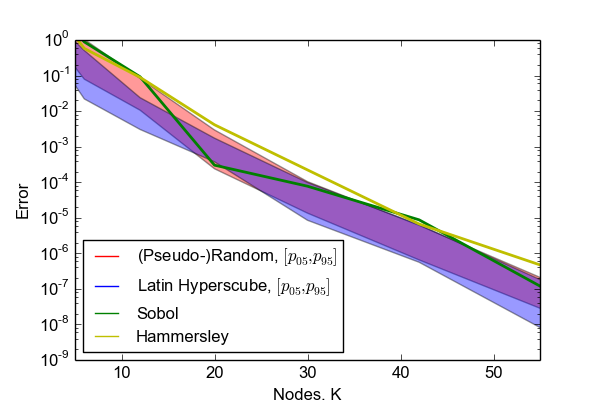
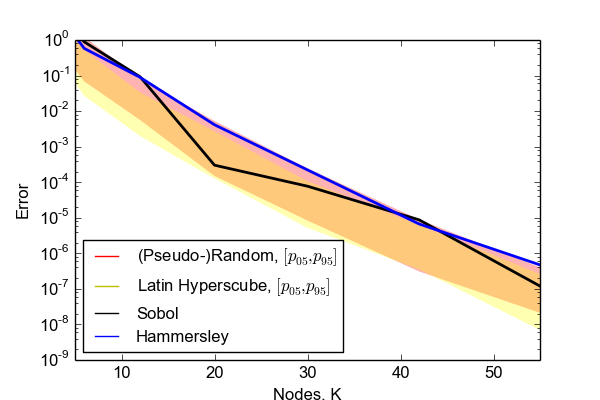
cganged plot

diff --git a/figures/convergence_collocation_compare.py b/figures/convergence_collocation_compare.py
@@ -31,9 +31,9 @@ legend = []
 #pl.plot(-1,1, "k-")
 #pl.plot(-1,1, "k--")
 pl.plot(-1,1, "r")
-pl.plot(-1,1, "b")
-pl.plot(-1,1, "g")
 pl.plot(-1,1, "y")
+pl.plot(-1,1, "k")
+pl.plot(-1,1, "b")
 pl.legend(["(Pseudo-)Random, $[p_{05}, p_{95}]$","Latin Hyperscube, $[p_{05}, p_{95}]$","Sobol","Hammersley"],loc=3,prop={"size" :12})
 pl.rc("figure", figsize=[6,4])
 pl.xlim([5,55])
@@ -45,7 +45,7 @@ N=7
 #varb = np.zeros(Nt)
 errorb = []
 varb=[]
-for i in range(0,10):
+for i in range(0,100):
     
     error = []
     var = []
@@ -73,7 +73,7 @@ print len(K)
 meanE = np.sum(errorb,0)/10.
 meanVar = np.sum(errorb,0)/10.
 
-pl.fill_between(K,p_10,p_90,facecolor="red",alpha=0.4)
+pl.fill_between(K,p_10,p_90,facecolor="red",alpha=0.3,lw=0)
 #pl.plot(K,meanE,"r-", linewidth=2)
 #pl.plot(K, meanVar,"r--", linewidth=2)
 
@@ -83,7 +83,7 @@ pl.fill_between(K,p_10,p_90,facecolor="red",alpha=0.4)
 
 errorb = []
 varb=[]
-for i in range(0,10):
+for i in range(0,100):
     
     error = []
     var = []
@@ -114,7 +114,7 @@ print len(K)
 meanE = np.sum(errorb,0)/10.
 meanVar = np.sum(errorb,0)/10.
 
-pl.fill_between(K,p_10,p_90,facecolor="blue",alpha=0.4)
+pl.fill_between(K,p_10,p_90,facecolor="yellow",alpha=0.3,lw=0)
 
 
 #pl.plot(K,meanE,"b-", linewidth=2)
@@ -139,7 +139,7 @@ for n in range(0,N):
 
 
 #pl.plot(K,error,"g-", linewidth=2)
-pl.plot(K, var,"g-", linewidth=2)
+pl.plot(K, var,"k-", linewidth=2)
 
 
 
@@ -158,7 +158,7 @@ for n in range(0,N):
 
 
 #pl.plot(K,error,"y-", linewidth=2)
-pl.plot(K, var,"y-", linewidth=2)
+pl.plot(K, var,"b-", linewidth=2)
 
 
 
@@ -174,7 +174,7 @@ pl.yscale('log')
 pl.savefig("convergence_collocation_compare.png")
 
 pl.show()
-
+"""
 pl.figure()
 nodes = dist.sample(100)
 pl.scatter(nodes[0],nodes[1])
@@ -205,6 +205,7 @@ pl.savefig("samples_S.png")
 
 
 #pl.show()
+"""
 
 
 

diff --git a/figures/convergence_L.py b/figures/convergence_L.py
@@ -98,15 +98,15 @@ pl.plot(K, varCP,"g--",linewidth=2)
 """
 
 
-pl.xlabel("Nodes, K")
-pl.ylabel("Error")
-pl.yscale('log')
+#pl.xlabel("Nodes, K")
+#pl.ylabel("Error")#
+#pl.yscale('log')
 #pl.xlim([5,35])
 #pl.ylim([10**-16,2*10**3])
 
 #pl.title("Error in expectation value and variance ")
 #pl.legend(["E, $L=M-1$","Var, $L=M-1$","Exp, $L=M$","Var,  $L=M$","E, $L=M+1$","Var,  $L=M+1$"],loc=3)
-pl.savefig("convergence_2D_L.png")
+#pl.savefig("convergence_2D_L.png")
 
 
 
@@ -200,6 +200,6 @@ pl.xlim([0,100])
 
 #Zpl.title("Error in expectation value and variance, sparse ")
 #pl.legend(["E, $L=M-1$","Var, $L=M-1$","E, $L=M$","Var, $L=M$"],loc=2)
-pl.savefig("convergence_2D_L_sparse.png")
+#pl.savefig("convergence_2D_L_sparse.png")
 
 pl.show()
